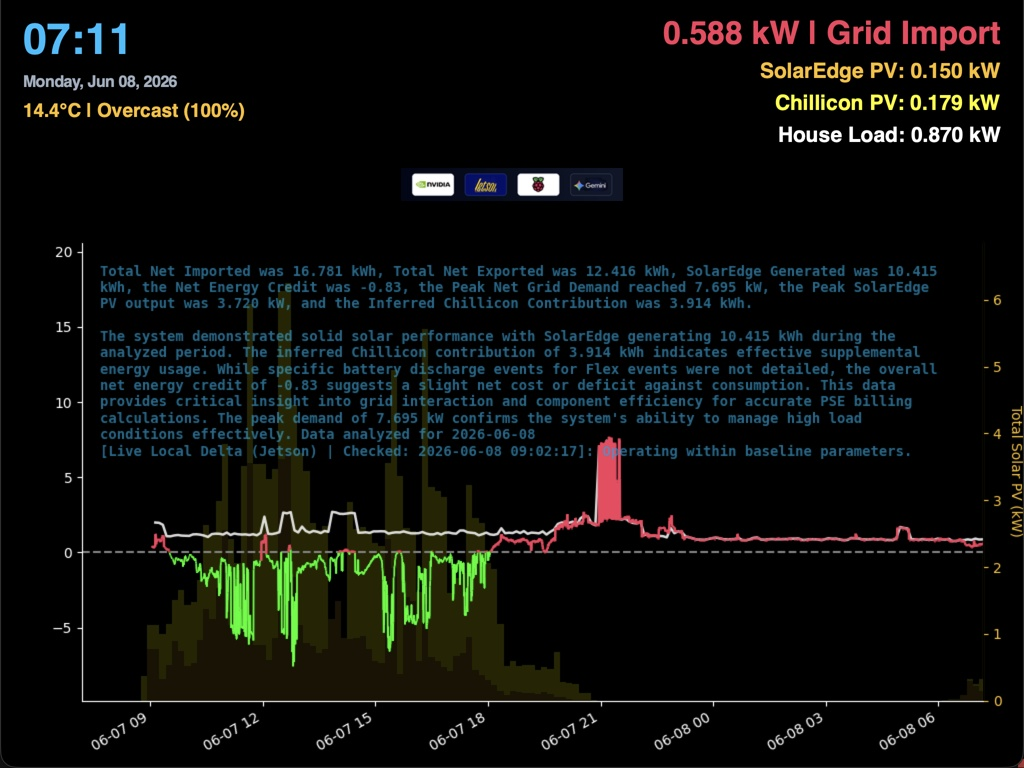
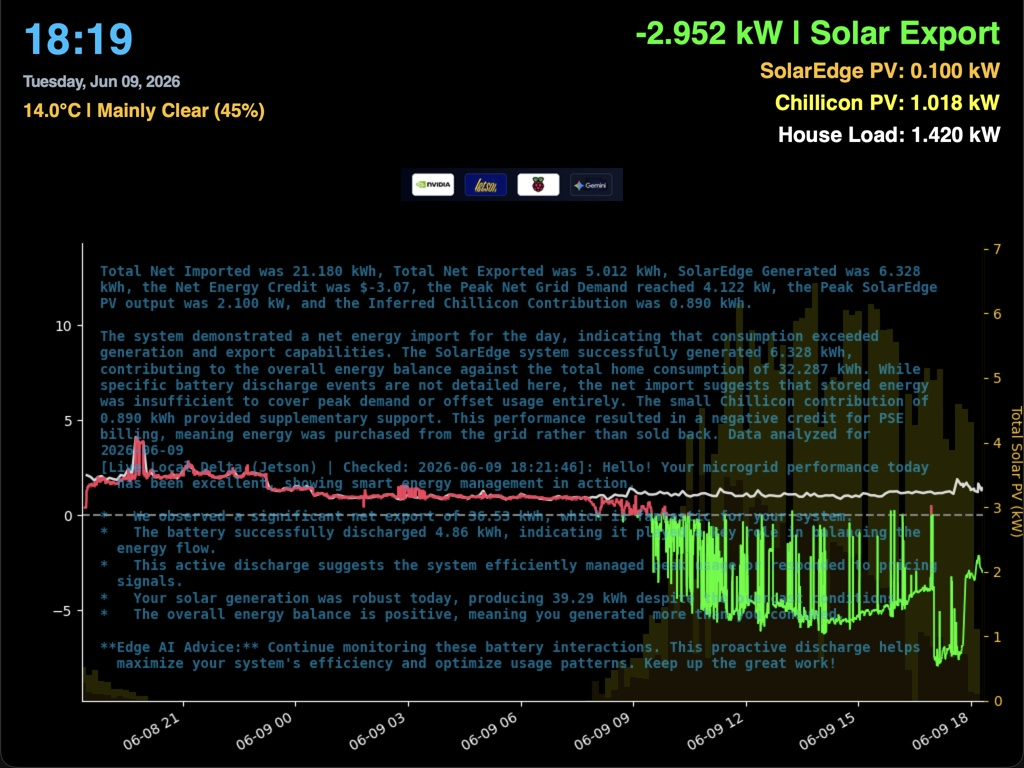
fix: resolve local renderer startup display limits and update view script

diff --git a/render_local_plot.py b/render_local_plot.py
@@ -104,6 +104,12 @@ class OfflineViewer(tk.Tk):
         # Load cached summaries
         self.load_cached_summary()
 
+        # Initialize time, date, and weather displays
+        init_dt = self.timestamps[-1] if self.timestamps else datetime.datetime.now()
+        self.time_label.config(text=init_dt.strftime("%H:%M"))
+        self.date_label.config(text=init_dt.strftime("%A, %b %d, %Y"))
+        self.update_weather_display()
+
         # Schedule Slide transitions
         if self.live_mode:
             self.after(config.SLIDE_1_DURATION_MS, self.rotate_slides)
